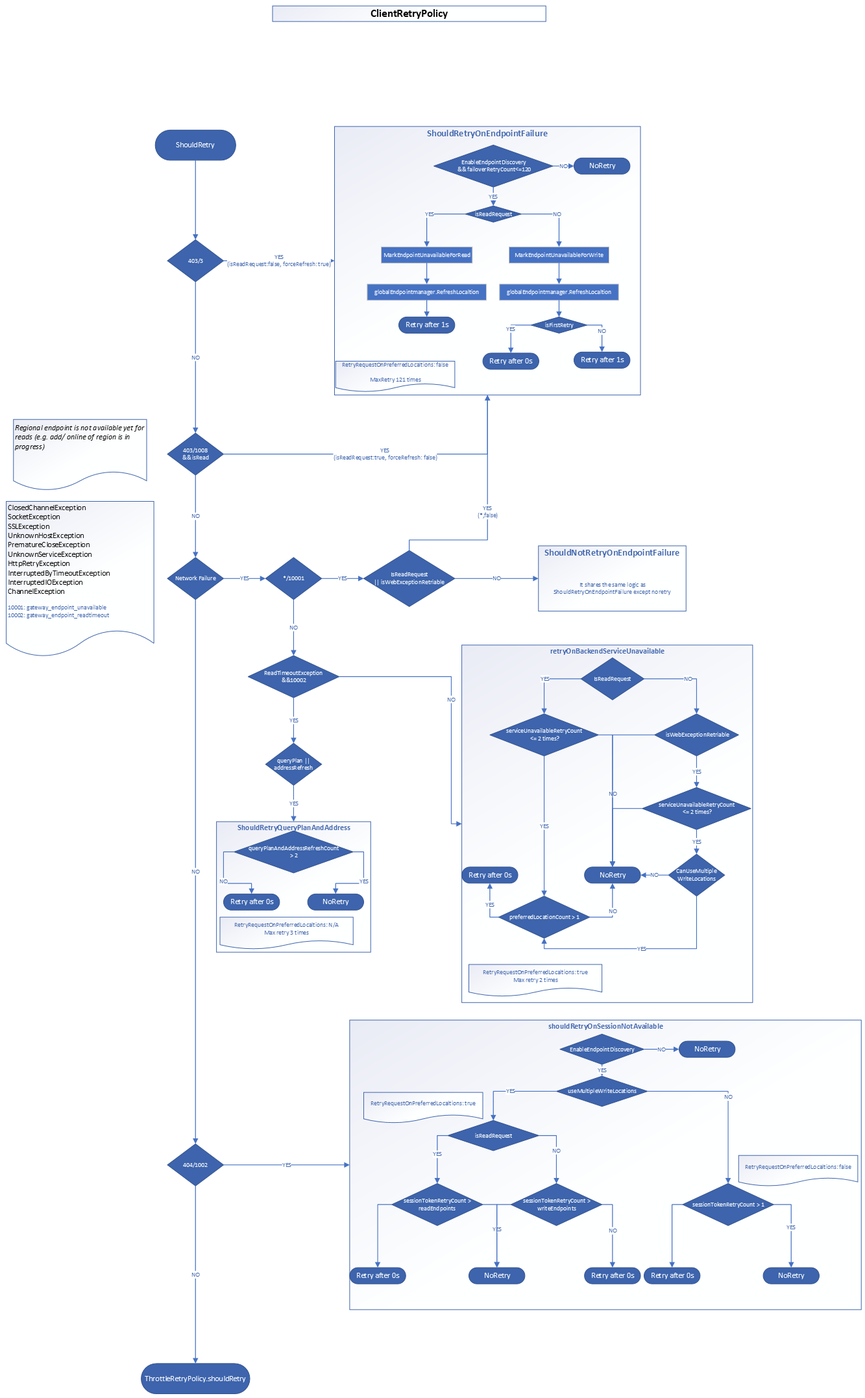
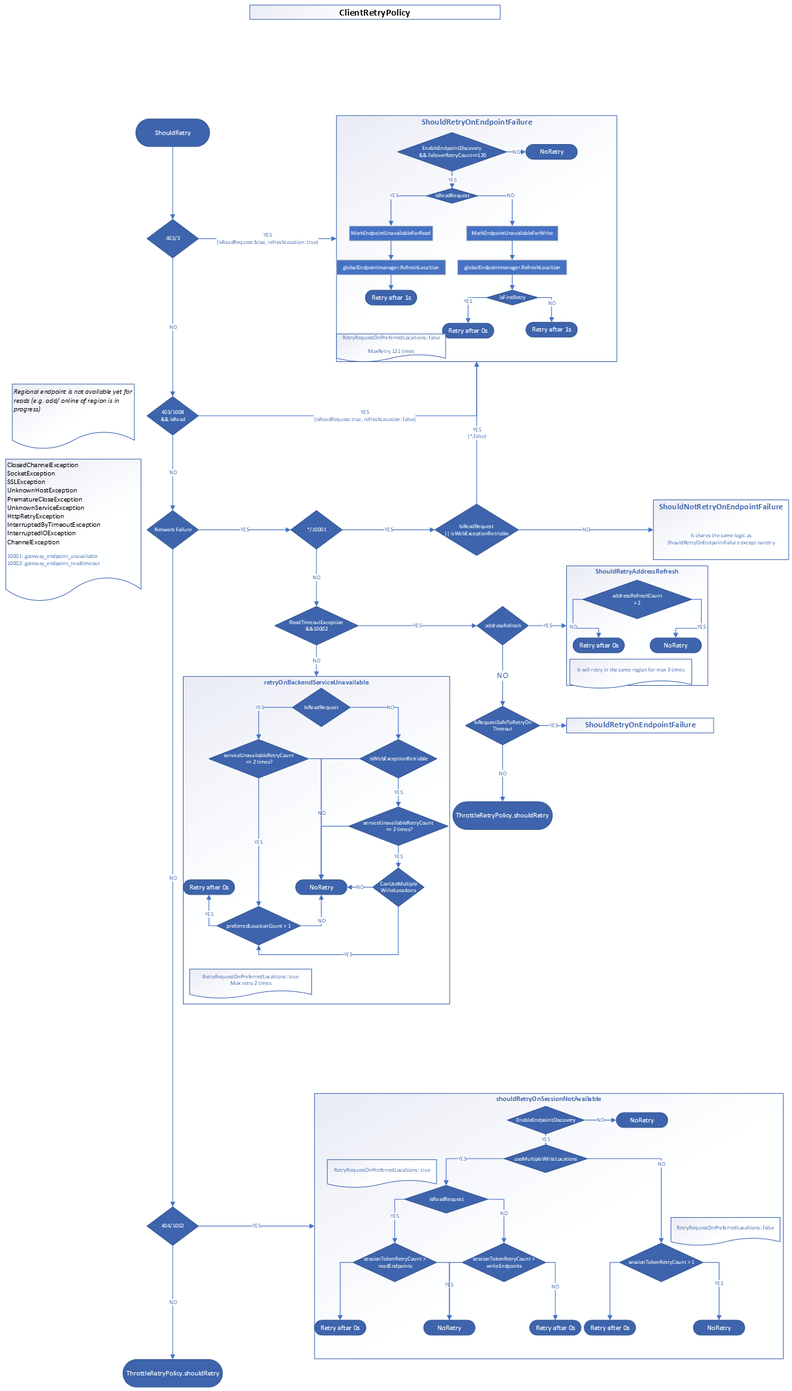
Keep retry doc up to date

diff --git a/sdk/cosmos/azure-cosmos/src/main/java/com/azure/cosmos/implementation/ClientRetryPolicy.java b/sdk/cosmos/azure-cosmos/src/main/java/com/azure/cosmos/implementation/ClientRetryPolicy.java
@@ -33,8 +33,8 @@ public class ClientRetryPolicy extends DocumentClientRetryPolicy {
     final static int RetryIntervalInMS = 1000; //Once we detect failover wait for 1 second before retrying request.
     final static int MaxRetryCount = 120;
     private final static int MaxServiceUnavailableRetryCount = 1;
-    //  Query Plan and Address Refresh will be re-tried 3 times, please check the if condition carefully :)
-    private final static int MAX_QUERY_PLAN_AND_ADDRESS_RETRY_COUNT = 2;
+    // Address Refresh will be re-tried 3 times, please check the if condition carefully :)
+    private final static int MAX_ADDRESS_REFRESH_RETRY_COUNT = 2;
 
     private final DocumentClientRetryPolicy throttlingRetry;
     private final GlobalEndpointManager globalEndpointManager;
@@ -50,7 +50,7 @@ public class ClientRetryPolicy extends DocumentClientRetryPolicy {
     private CosmosDiagnostics cosmosDiagnostics;
     private AtomicInteger cnt = new AtomicInteger(0);
     private int serviceUnavailableRetryCount;
-    private int queryPlanAddressRefreshCount;
+    private int addressRefreshCount;
     private RxDocumentServiceRequest request;
     private RxCollectionCache rxCollectionCache;
 
@@ -126,7 +126,7 @@ public class ClientRetryPolicy extends DocumentClientRetryPolicy {
                 WebExceptionUtility.isReadTimeoutException(clientException) &&
                 Exceptions.isSubStatusCode(clientException, HttpConstants.SubStatusCodes.GATEWAY_ENDPOINT_READ_TIMEOUT)) {
 
-                boolean canFailoverOnTimeout = canGatewayRequestFailoverOnTimeout(request, clientException);
+                boolean canFailoverOnTimeout = canGatewayRequestFailoverOnTimeout(request);
 
                 //if operation is data plane read, metadata read, or query plan it can be retried on a different endpoint.
                 if(canFailoverOnTimeout) {
@@ -135,7 +135,7 @@ public class ClientRetryPolicy extends DocumentClientRetryPolicy {
 
                 // if operationType AddressRefresh then just retry
                 if (this.request.isAddressRefresh()) {
-                    return shouldRetryQueryPlanAndAddress();
+                    return shouldRetryAddressRefresh();
                 }
             } else {
                 logger.warn("Backend endpoint not reachable. ", e);
@@ -160,7 +160,7 @@ public class ClientRetryPolicy extends DocumentClientRetryPolicy {
         return this.throttlingRetry.shouldRetry(e);
     }
 
-      private boolean canGatewayRequestFailoverOnTimeout(RxDocumentServiceRequest request, CosmosException clientException) {
+      private boolean canGatewayRequestFailoverOnTimeout(RxDocumentServiceRequest request) {
         //Query Plan requests
         if(request.getOperationType() == OperationType.QueryPlan) {
             return true;
@@ -186,22 +186,22 @@ public class ClientRetryPolicy extends DocumentClientRetryPolicy {
         return false;
     }
 
-    private Mono<ShouldRetryResult> shouldRetryQueryPlanAndAddress() {
+    private Mono<ShouldRetryResult> shouldRetryAddressRefresh() {
 
-        if (this.queryPlanAddressRefreshCount++ > MAX_QUERY_PLAN_AND_ADDRESS_RETRY_COUNT) {
+        if (this.addressRefreshCount++ > MAX_ADDRESS_REFRESH_RETRY_COUNT) {
             logger
                 .warn(
-                    "shouldRetryQueryPlanAndAddress() No more retrying on endpoint {}, operationType = {}, count = {}, " +
+                    "shouldRetryAddressRefresh() No more retrying on endpoint {}, operationType = {}, count = {}, " +
                         "isAddressRefresh = {}",
-                    this.locationEndpoint, this.request.getOperationType(), this.queryPlanAddressRefreshCount, this.request.isAddressRefresh());
+                    this.locationEndpoint, this.request.getOperationType(), this.addressRefreshCount, this.request.isAddressRefresh());
             return Mono.just(ShouldRetryResult.noRetry());
         }
 
         logger
-            .warn("shouldRetryQueryPlanAndAddress() Retrying on endpoint {}, operationType = {}, count = {}, " +
+            .warn("shouldRetryAddressRefresh() Retrying on endpoint {}, operationType = {}, count = {}, " +
                       "isAddressRefresh = {}, shouldForcedAddressRefresh = {}, " +
                       "shouldForceCollectionRoutingMapRefresh = {}",
-                  this.locationEndpoint, this.request.getOperationType(), this.queryPlanAddressRefreshCount,
+                  this.locationEndpoint, this.request.getOperationType(), this.addressRefreshCount,
                 this.request.isAddressRefresh(),
                 this.request.shouldForceAddressRefresh(),
                 this.request.forceCollectionRoutingMapRefresh);

diff --git a/sdk/cosmos/azure-cosmos/docs/ErrorCodesAndRetries.md b/sdk/cosmos/azure-cosmos/docs/ErrorCodesAndRetries.md
@@ -1,16 +1,18 @@
 ## Cosmos DB Java SDK – Detailing Exceptions and Retries 
  
-| Status code  | Cause of exception and retry behavior     |
-| :--- | :--- |
-| 400    | For all operations: </br><ul><li> This exception is encountered when the request is invalid, which could be for any of the following reasons: </br><ul><li>Syntax error in query text</li><li>Malformed JSON document for a write request</li><li>Incorrectly formatted REST API request body etc.</li></ul></li><li>The client does NOT retry the request when a Bad Request (400) exception is thrown by the server.</li></ul>                        |
-| 401   | For all operations: </br><ul><li> This is an unauthorized exception due to invalid auth tokens being used for the request. The client does NOT retry requests when this exception is encountered.</li></ul>                   |
-| 403   | For all operations: </br><ul><li> This is a forbidden exception due to invalid permissions and the client does NOT retry requests when a 403 is encountered. </li></ul>                    |
+| Status code | Cause of exception and retry behavior     |
+|:------------| :--- |
+| 400         | For all operations: </br><ul><li> This exception is encountered when the request is invalid, which could be for any of the following reasons: </br><ul><li>Syntax error in query text</li><li>Malformed JSON document for a write request</li><li>Incorrectly formatted REST API request body etc.</li></ul></li><li>The client does NOT retry the request when a Bad Request (400) exception is thrown by the server.</li></ul>                        |
+| 401         | For all operations: </br><ul><li> This is an unauthorized exception due to invalid auth tokens being used for the request. The client does NOT retry requests when this exception is encountered.</li></ul>                   |
+| 403/3       | <ul><li>For Write Operations: </br><ul><li>Client will refresh database account and then retry. </li></ul></li></ul> 
+| 403/1008    | <ul><li>For Read Operations: </br><ul><li>Client will refresh database account and then retry. </li></ul></li></ul>
+| 403/Others  | For all operations: </br><ul><li> This is a forbidden exception due to invalid permissions and the client does NOT retry requests when a 403 is encountered. </li></ul>                    |
 | 404/1002    | <ul><li>For Write Operations: </br><ul><li>For a **single-write region**, is only applicable for read operations. </li><li>For a **multi-write region**, SDK will retry on the same region few times, then retry on different regions. </li></ul></li><li>For Query Operations: </br><ul><li>When using Session Consistency: </br><ul><li>The Cosmos DB SDK does retry the <br/>read request against a second replica for the partition (in the same region) with the specified session token. </li><li>If the second replica also throws a 404: </br><ul><li>If there are additional regions for the Cosmos DB account: </br><ul><li>For a single-write region account, the client retries the request against the write region for the account (if the first request targeted the read region). The client will follow the same path of targeting 1 replica followed by a retry against another replica if the read against the first replica resulted in a 404. </li><li>If all regions have 2 replicas that returned a 404, the exception is bubbled back up to the calling code. </li></ul></li></ul></li></ul></li><li>When using all other Consistency Levels: </br><ul><li>N/A as a query operation will return an empty set instead of a Resource Not Found (404) exception. </li></ul></li></ul></li><li>For Point Read Operations: </br><ul><li>When using Eventual Consistency: </br><ul><li>The SDK sends the read request to a single replica for the partition. If the replica does not contain the data, a 404 (Resource Not Found) exception is thrown.</li><li>The Cosmos DB SDK does not retry this exception and bubbles the exception to the calling code. This is because Eventual consistency favors latency over data consistency.  </li></ul></li><li>When using Session Consistency: </br><ul><li>The SDK sends the read request to a single replica for the partition along with a session token. If the replica does not contain data that is more recent than the specified session token, a 404 (Resource Not Found) exception is thrown. </br><ul><li>The Cosmos DB SDK does retry the read request against a second replica for the partition (in the same region) with the specified session token. </li><li>If the second replica also throws a 404: </br><ul><li>If there are additional regions for the Cosmos DB account: </br><ul><li>For a single-write region account, the client retries the request against the write region for the account (if the first request targeted the read region). The client will follow the same path of targeting 1 replica followed by a retry against another replica if the read against the first replica resulted in a 404. </li><li>If all regions have 2 replicas that returned a 404, the exception is bubbled back up to the calling code. </li></ul></li><ul></li></ul></li></ul></li><li>When using Bounded Staleness and Strong Consistency: </br><ul><li>The SDK sends the read request to 2 replicas for the partition in the specified region. </li><li>If one of the 2 replicas returns a 404, data from the second replica is returned by the SDK. </li><li>If both replicas return a 404, the exception is bubbled up to the application. </li><li>The Cosmos DB SDK does NOT retry the read against a remote region is both replicas in the specified region return a 404 for the point read operation. </li></ul></li></ul></li></ul>                                                                                                                                                                                                                                                                                                                                                                                                                                                                                                                                                                                                                                                                                                                                                                                                                                                                                                                                                                                                                                                                                                                                                                                                                                                                                                                                                                                                                                                                                                                                                                                                                                                                                                                                                            |
-| 408    | <ul><li>For Write Operations: <br><ul><li>Timeout exceptions can be encountered by both the client as well as the server. </li><li>Client-side timeouts are manifested internally as 410 exceptions due to intermittent network connectivity issues and follow the path specified below in the section detailing 410 status codes. </li><li>Server-side timeout exceptions are not retried for write operations as it is not possible to determine if the write was in fact successfully committed on the server. To avoid overwriting a previously committed write, the client does NOT retry this operation and bubbles up the exception to the application as a Request Timeout Exception (408). </li><li>For a client-generate timeout exception, there are two scenarios: </br><ul><li>The request was sent over the wire to the server by the client, but the network request timeout exceeded, while waiting for a response. In this case, it is unclear if the write was received and committed by the server and thus, the operation is not retried. A timeout exception is bubbled up to the application by the client. </li><li>The request was not sent over the wire to the server which resulted in a client-generated timeout. If this is due to a network error: </li></ul></li><li>For a server-generated timeout exception: The client DOES NOT retry.</li></ul></li><li>For Query and Point Read Operations:</br><ul><li>The request is retried locally for up to 30 seconds with an exponential backoff for subsequent retries. If all retries are exhausted, the client bubbles up the exception back to the application as a Request Timeout Exception (408). </li></ul> </li></ul>    |
-| 409    | <ul><li>For Write Operations: </br><ul><li>This exception occurs when an attempt is made by the application to Create/Insert an Item that already exists.</li><li>This exception can occur regardless of the Consistency level set for the account. </li><li>This exception can occur for write operations when an attempt is made to create an existing item or when a unique key constraint violation occurs. </li><li>The client does NOT retry on Conflict exceptions </li></ul></li><li>For Query Operations: </br><ul><li>N/A as this exception is only encountered for Create/Insert operations. </li></ul></li><li>For Point Read Operations: <br><ul><li>N/A as this exception is only encountered for Create/Insert operations. </li></ul></li></ul>    |
-| 410  | <ul><li>For both read and write operations, a 410 (Gone Exception) can be thrown in the following scenarios: </br><ul><li>When a partition is split (or merged in the future) and no longer exists </li><li>When a replica has been moved to another address. Replicas are moved to ensure load balancing of request volume on the server. However, this is a very rarely triggered operation.  </li></ul></li><li>For Write Operations: <br><ul><li>A 410 can be thrown by both the client as well as the server.   </li><li>For a server-generated 410: </br><ul><li>The client retries the write operation after triggering an address resolution operation. Retries are executed for up to 30 seconds with an exponential back off retry between successive retries. </li></ul><li>For a client-generated 410: </br><ul><li>For a client-generated 410 when the request was **NOT** sent over the wire: </br><ul><li>**For a single-write region account**, the client retries the request in the local region for up to 30 seconds with an exponential back off between successive retries. After all the retries are exhausted, the exception is bubbled up to the application as Service Unavailable Exception (503). </li><li>**For a multi-write region account**, the client first retries the request for up to 30 seconds in the local region with an exponential back off between successive retries. After all the retries in the local region have been exhausted, the client retries the request against the next region in the list of Preferred Locations (and if **usingMultipleWriteLocations** is set to true). If all the retries in the next region also result in 410 exceptions, the exception is bubbled up to the application as a Service Unavailable exception (503). </li></ul><li>For a client-generated 410 when the request **WAS** sent over the wire: </br><ul><li>The client does NOT retry these requests as it cannot be determined if the server received the request and committed the write operation. </li><li>Thus, when the 410 was due to a networking timeout when waiting on a response from the server, the client bubbles up the exception to the application as a Request Timeout (408). </li><li>If the 410 was due to a network connectivity issue after sending the request over the write, the client bubbles up the exception to the application as a Service Unavailable Exception (503). </li></ul></li></li></ul></li></ul></li><li>For Read Operations: </br><ul><li>When using Eventual Consistency: </br><ul><li>The client triggers an Address Resolution to refresh the addresses of the replicas for the partition. However, as of today this does not refresh the connection itself. The connection is refreshed when the first request to that endpoint is made. This is done for performance reasons and to ensure the number of established connections does not exceed the limits of the VM. </li><li>The client then retries the read request against a random replica for the partition. </li><li>The previous two steps are repeated if they continue to see Gone Exceptions for a maximum of 30 seconds (when using Direct Mode) and 60 seconds (when using Gateway mode). </li><li>This exception typically occurs due to intermittent network connectivity to the server. </br><ul><li>**For a multi-region account**, after all the retries against the local region are exhausted, the exception is retried against the next region for the account (for a multi-region account). The order in which regions are selected is based on the list of Preferred Locations, configured in the client. </br><ul><li>If all retries are exhausted against all subsequent regions for the account, then the exception is bubbled up to the application as a Service Unavailable Exception (503). </li></ul></li></ul><li>Important points to note about the request timeout value that is configured by the application when the Cosmos client is initialized: </br><ul><li>The setting is only applicable to calls using Direct Mode. </li><li>Gateway mode timeout settings are not exposed externally and controlled internally by the client as there are additional internal operations that rely on the Gateway and an incorrect timeout setting can lead to adverse side effects. </li><li>The range of possible values that can be set for network timeouts in Direct Mode are between 5 and 10 seconds (inclusive). </li><li>This timeout setting applies to each network request. </li><li>Thus, each retry (in a scenario with multiple retries issued by the client) will have its own timer. The timeout duration is not cumulative across all retries.</li></ul></li></li></ul></li></ul></li><li>When using Session Consistency: </br><ul><li>Same behavior as Eventual Consistency with one addition: the client will first retry the request on other replicas.</li></ul></li><li>When using Bounded Staleness or Strong Consistency: </br><ul><li>A maximum of 60 seconds is spent retrying the request if needed.</li><li>All other behavior is the same as Session Consistency </li></ul></li></ul>     |
-| 412  | <ul><li>For Write Operations: </br><ul><li>This exception is encountered when the etag that is sent to the server for validation prior to updating an Item, does not match the etag of the Item on the server. </li><li>The client does NOT retry this operation locally or against any of the remote regions for the account as retries would not help alleviate the etag mismatch. </li><li>The application would need to trigger a retry by first reading the Item, fetching the latest etag and issuing the Upsert/Replace operation. </br><ul><li>This operation can continue to fail with the same exception when multiple updates are executed concurrently for the same Item. </li><li>An upper bound on the number of retries before handing off the Item to a dead letter queue should be implemented by the application. </li></ul></li></ul></li><li>For Query and point read Operations: </br><ul><li>N/A as this exception is only encountered for Create/Insert/Replace/Upsert operations. </li></ul></li></ul>    |
-| 429  | For all Operations: </br><ul><li>By default, the client retries the request for a maximum of 9 times (or for a maximum of 30 seconds, whichever limit is reached first). </li><li>The client can also be initialized with a custom retry policy, which overrides the two limits mentioned above. </li><li>After all the retries are exhausted, the client bubbles up the exception to the application. </li><li>**For a multi-region account**, the client does NOT retry the request against a remote region for the account. </li><li>When the application receives a Request Rate too large exception (429), the application would need to instrument its own retry logic and dead letter queues. </li></ul>     |
-| 449  | <ul><li>For Write Operations: </br><ul><li>This exception is encountered when a resource is concurrently updated on the server, which can happen due to concurrent writes, user triggered while conflicts are concurrently being resolved etc. </li><li>Only one update can be executed at a time per item. The other concurrent requests will fail with a Concurrent Execution Exception (449). </li><li>The client does retry requests that failed with a 449 with the first retry triggered after 10ms, followed by an exponential backoff for subsequent retries for up to 30 seconds. If all retries are exhausted, the client bubbles up the exception to the application. </li></ul></li><li>For Query and point read Operations: </br><ul><li>N/A as this exception is only encountered for Create/Insert/Replace/Upsert operations. </li></ul></li></ul>     |
-| 500  | For all Operations: </br><ul><li>The occurrence of an Invalid Exception (500) is extremely rare, and the client does NOT retry a request that encounters this exception. </li></ul>     |
-| 503  | <ul><li>For all Operations using Direct Mode: </br><ul><li>By this point, the client has already retried the operation multiple times locally and in some case across another region (see 410 section above) and bubbles up the exception to the application as a Service Unavailable Exception (503), which can be retried by the application. </li></ul></li><li>For all Gateway Operations: </br><ul><li>These operations can be any of the following: </br><ul><li>Data Plane operations using Gateway mode </li><li>Internal operations triggered by the client for the following: </br><ul><li>Address Resolution to refresh the address for an endpoint after partition splits and replica movements </li><li>Query Plan retrieval – the Cosmos DB Java SDK retrieves (and caches) the query plan from the Gateway prior to executing query operations. </li></ul><li>When a Service Unavailable exception is encountered: </br><ul><li>The client does retry the request up to 2 times against the same Gateway endpoint. </li><li>For data plane Write Operations using Gateway mode: </br><ul><li>**For accounts with a single-write region** configuration, if both retries result in failures, the exception is bubbled up to the application. </li><li>**For accounts with a multi-write region** configuration, after both retries are exhausted, the exception is retried against the next region for the account if **usingMultipleWriteLocations** is set to true. </li><li>If all retries are exhausted against all subsequent regions for the account, then the exception is bubbled up to the application as a Service Unavailable Exception (503). </li></ul><li>For data plane Read/Query operations using Gateway mode: </br><ul><li>**For a single-region account**, the request is retried for up to 2 times, and after both retries are exhausted the exception is bubbled up to the application as a Service Unavailable Exception (503). </li><li>**For a multi-region account**, the request is retried locally, followed by retries against subsequent regions for the account. After all the retries are exhausted against 1 more region for the account, the exception is bubbled up to the application as a Service Unavailable Exception (503). </li></ul><li>For a metadata operation to retrieve the address of replicas and query plans: </br><ul><li>**For a single-region account**, the request is retried for up to 2 times, and after both retries are exhausted the exception is bubbled up to the application as a Service Unavailable Exception (503). </li><li>**For a multi-region account**, the request is retried locally, followed by retries against subsequent regions for the account. Addresses will resolve to the Gateway region’s endpoints. </br><ul><li>After all the retries are exhausted against all subsequent regions, the exception is bubbled up to the application as a Service Unavailable Exception (503). </li></ul></li></ul></li></li></li></ul></li></li></ul></li></ul></li></ul>     |
+| 408         | <ul><li>For Write Operations: <br><ul><li>Timeout exceptions can be encountered by both the client as well as the server. </li><li>Client-side timeouts are manifested internally as 410 exceptions due to intermittent network connectivity issues and follow the path specified below in the section detailing 410 status codes. </li><li>Server-side timeout exceptions are not retried for write operations as it is not possible to determine if the write was in fact successfully committed on the server. To avoid overwriting a previously committed write, the client does NOT retry this operation and bubbles up the exception to the application as a Request Timeout Exception (408). </li><li>For a client-generate timeout exception, there are two scenarios: </br><ul><li>The request was sent over the wire to the server by the client, but the network request timeout exceeded, while waiting for a response. In this case, it is unclear if the write was received and committed by the server and thus, the operation is not retried. A timeout exception is bubbled up to the application by the client. </li><li>The request was not sent over the wire to the server which resulted in a client-generated timeout. If this is due to a network error: </li></ul></li><li>For a server-generated timeout exception: The client DOES NOT retry.</li></ul></li><li>For Query and Point Read Operations:</br><ul><li>The request is retried locally for up to 30 seconds with an exponential backoff for subsequent retries. If all retries are exhausted, the client bubbles up the exception back to the application as a Request Timeout Exception (408). </li></ul> </li></ul>    |
+| 409         | <ul><li>For Write Operations: </br><ul><li>This exception occurs when an attempt is made by the application to Create/Insert an Item that already exists.</li><li>This exception can occur regardless of the Consistency level set for the account. </li><li>This exception can occur for write operations when an attempt is made to create an existing item or when a unique key constraint violation occurs. </li><li>The client does NOT retry on Conflict exceptions </li></ul></li><li>For Query Operations: </br><ul><li>N/A as this exception is only encountered for Create/Insert operations. </li></ul></li><li>For Point Read Operations: <br><ul><li>N/A as this exception is only encountered for Create/Insert operations. </li></ul></li></ul>    |
+| 410         | <ul><li>For both read and write operations, a 410 (Gone Exception) can be thrown in the following scenarios: </br><ul><li>When a partition is split (or merged in the future) and no longer exists </li><li>When a replica has been moved to another address. Replicas are moved to ensure load balancing of request volume on the server. However, this is a very rarely triggered operation.  </li></ul></li><li>For Write Operations: <br><ul><li>A 410 can be thrown by both the client as well as the server.   </li><li>For a server-generated 410: </br><ul><li>The client retries the write operation after triggering an address resolution operation. Retries are executed for up to 30 seconds with an exponential back off retry between successive retries. </li></ul><li>For a client-generated 410: </br><ul><li>For a client-generated 410 when the request was **NOT** sent over the wire: </br><ul><li>**For a single-write region account**, the client retries the request in the local region for up to 30 seconds with an exponential back off between successive retries. After all the retries are exhausted, the exception is bubbled up to the application as Service Unavailable Exception (503). </li><li>**For a multi-write region account**, the client first retries the request for up to 30 seconds in the local region with an exponential back off between successive retries. After all the retries in the local region have been exhausted, the client retries the request against the next region in the list of Preferred Locations (and if **usingMultipleWriteLocations** is set to true). If all the retries in the next region also result in 410 exceptions, the exception is bubbled up to the application as a Service Unavailable exception (503). </li></ul><li>For a client-generated 410 when the request **WAS** sent over the wire: </br><ul><li>The client does NOT retry these requests as it cannot be determined if the server received the request and committed the write operation. </li><li>Thus, when the 410 was due to a networking timeout when waiting on a response from the server, the client bubbles up the exception to the application as a Request Timeout (408). </li><li>If the 410 was due to a network connectivity issue after sending the request over the write, the client bubbles up the exception to the application as a Service Unavailable Exception (503). </li></ul></li></li></ul></li></ul></li><li>For Read Operations: </br><ul><li>When using Eventual Consistency: </br><ul><li>The client triggers an Address Resolution to refresh the addresses of the replicas for the partition. However, as of today this does not refresh the connection itself. The connection is refreshed when the first request to that endpoint is made. This is done for performance reasons and to ensure the number of established connections does not exceed the limits of the VM. </li><li>The client then retries the read request against a random replica for the partition. </li><li>The previous two steps are repeated if they continue to see Gone Exceptions for a maximum of 30 seconds (when using Direct Mode) and 60 seconds (when using Gateway mode). </li><li>This exception typically occurs due to intermittent network connectivity to the server. </br><ul><li>**For a multi-region account**, after all the retries against the local region are exhausted, the exception is retried against the next region for the account (for a multi-region account). The order in which regions are selected is based on the list of Preferred Locations, configured in the client. </br><ul><li>If all retries are exhausted against all subsequent regions for the account, then the exception is bubbled up to the application as a Service Unavailable Exception (503). </li></ul></li></ul><li>Important points to note about the request timeout value that is configured by the application when the Cosmos client is initialized: </br><ul><li>The setting is only applicable to calls using Direct Mode. </li><li>Gateway mode timeout settings are not exposed externally and controlled internally by the client as there are additional internal operations that rely on the Gateway and an incorrect timeout setting can lead to adverse side effects. </li><li>The range of possible values that can be set for network timeouts in Direct Mode are between 5 and 10 seconds (inclusive). </li><li>This timeout setting applies to each network request. </li><li>Thus, each retry (in a scenario with multiple retries issued by the client) will have its own timer. The timeout duration is not cumulative across all retries.</li></ul></li></li></ul></li></ul></li><li>When using Session Consistency: </br><ul><li>Same behavior as Eventual Consistency with one addition: the client will first retry the request on other replicas.</li></ul></li><li>When using Bounded Staleness or Strong Consistency: </br><ul><li>A maximum of 60 seconds is spent retrying the request if needed.</li><li>All other behavior is the same as Session Consistency </li></ul></li></ul>     |
+| 412         | <ul><li>For Write Operations: </br><ul><li>This exception is encountered when the etag that is sent to the server for validation prior to updating an Item, does not match the etag of the Item on the server. </li><li>The client does NOT retry this operation locally or against any of the remote regions for the account as retries would not help alleviate the etag mismatch. </li><li>The application would need to trigger a retry by first reading the Item, fetching the latest etag and issuing the Upsert/Replace operation. </br><ul><li>This operation can continue to fail with the same exception when multiple updates are executed concurrently for the same Item. </li><li>An upper bound on the number of retries before handing off the Item to a dead letter queue should be implemented by the application. </li></ul></li></ul></li><li>For Query and point read Operations: </br><ul><li>N/A as this exception is only encountered for Create/Insert/Replace/Upsert operations. </li></ul></li></ul>    |
+| 429         | For all Operations: </br><ul><li>By default, the client retries the request for a maximum of 9 times (or for a maximum of 30 seconds, whichever limit is reached first). </li><li>The client can also be initialized with a custom retry policy, which overrides the two limits mentioned above. </li><li>After all the retries are exhausted, the client bubbles up the exception to the application. </li><li>**For a multi-region account**, the client does NOT retry the request against a remote region for the account. </li><li>When the application receives a Request Rate too large exception (429), the application would need to instrument its own retry logic and dead letter queues. </li></ul>     |
+| 449         | <ul><li>For Write Operations: </br><ul><li>This exception is encountered when a resource is concurrently updated on the server, which can happen due to concurrent writes, user triggered while conflicts are concurrently being resolved etc. </li><li>Only one update can be executed at a time per item. The other concurrent requests will fail with a Concurrent Execution Exception (449). </li><li>The client does retry requests that failed with a 449 with the first retry triggered after 10ms, followed by an exponential backoff for subsequent retries for up to 30 seconds. If all retries are exhausted, the client bubbles up the exception to the application. </li></ul></li><li>For Query and point read Operations: </br><ul><li>N/A as this exception is only encountered for Create/Insert/Replace/Upsert operations. </li></ul></li></ul>     |
+| 500         | For all Operations: </br><ul><li>The occurrence of an Invalid Exception (500) is extremely rare, and the client does NOT retry a request that encounters this exception. </li></ul>     |
+| 503         | <ul><li>For all Operations using Direct Mode: </br><ul><li>By this point, the client has already retried the operation multiple times locally and in some case across another region (see 410 section above) and bubbles up the exception to the application as a Service Unavailable Exception (503), which can be retried by the application. </li></ul></li><li>For all Gateway Operations: </br><ul><li>These operations can be any of the following: </br><ul><li>Data Plane operations using Gateway mode </li><li>Internal operations triggered by the client for the following: </br><ul><li>Address Resolution to refresh the address for an endpoint after partition splits and replica movements </li><li>Query Plan retrieval – the Cosmos DB Java SDK retrieves (and caches) the query plan from the Gateway prior to executing query operations. </li></ul><li>When a Service Unavailable exception is encountered: </br><ul><li>The client does retry the request up to 2 times against the same Gateway endpoint. </li><li>For data plane Write Operations using Gateway mode: </br><ul><li>**For accounts with a single-write region** configuration, if both retries result in failures, the exception is bubbled up to the application. </li><li>**For accounts with a multi-write region** configuration, after both retries are exhausted, the exception is retried against the next region for the account if **usingMultipleWriteLocations** is set to true. </li><li>If all retries are exhausted against all subsequent regions for the account, then the exception is bubbled up to the application as a Service Unavailable Exception (503). </li></ul><li>For data plane Read/Query operations using Gateway mode: </br><ul><li>**For a single-region account**, the request is retried for up to 2 times, and after both retries are exhausted the exception is bubbled up to the application as a Service Unavailable Exception (503). </li><li>**For a multi-region account**, the request is retried locally, followed by retries against subsequent regions for the account. After all the retries are exhausted against 1 more region for the account, the exception is bubbled up to the application as a Service Unavailable Exception (503). </li></ul><li>For a metadata operation to retrieve the address of replicas and query plans: </br><ul><li>**For a single-region account**, the request is retried for up to 2 times, and after both retries are exhausted the exception is bubbled up to the application as a Service Unavailable Exception (503). </li><li>**For a multi-region account**, the request is retried locally, followed by retries against subsequent regions for the account. Addresses will resolve to the Gateway region’s endpoints. </br><ul><li>After all the retries are exhausted against all subsequent regions, the exception is bubbled up to the application as a Service Unavailable Exception (503). </li></ul></li></ul></li></li></li></ul></li></li></ul></li></ul></li></ul>     |
